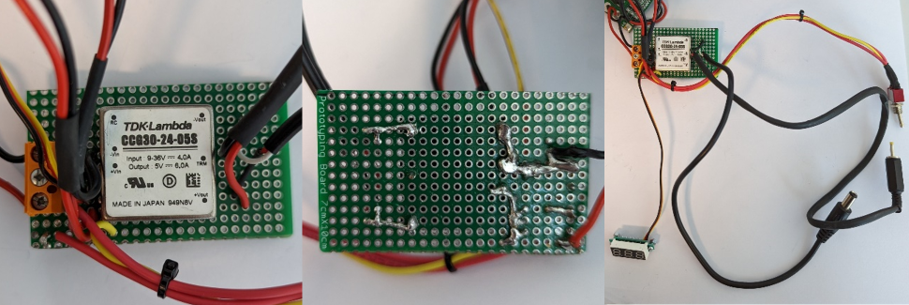
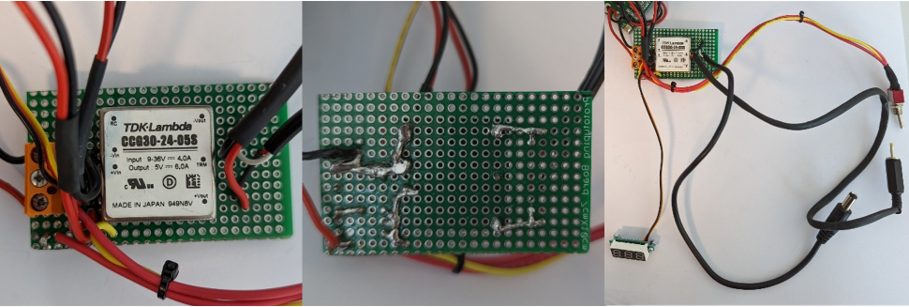
prototyping board

diff --git a/docs/hardware/Prototyping_Board_Test.py b/docs/hardware/Prototyping_Board_Test.py
@@ -1,0 +1,17 @@
+#!/usr/bin/python3
+
+import argparse
+import shape
+
+DEFAULT_HEIGHT = 46.0
+DEFAULT_WIDTH = 61.0
+
+parser = argparse.ArgumentParser()
+parser.add_argument("--height", help=f"Shape height in mm's (default={DEFAULT_HEIGHT})", type=float, default=DEFAULT_HEIGHT)
+parser.add_argument("--width", help=f"Shape width in mm's (default={DEFAULT_WIDTH})", type=float, default=DEFAULT_WIDTH)
+
+args = parser.parse_args()
+
+s = shape.Shape({"height": args.height, "width": args.width})
+
+print(s.render())

diff --git a/docs/hardware/assembly_instructions.md b/docs/hardware/assembly_instructions.md
@@ -68,6 +68,7 @@ Install the wheel onto the wheel adapter using 4x M3x8 screws.
 **Good job! Now 3 more to go.**
 
 ![Image](assembly_instructions/T1END.png)
+
 This is how your assembly should look after all the wheels have been attached.
 
 
@@ -97,7 +98,7 @@ This is how your assembly should look after all the wheels have been attached.
 
 ![Image](assembly_instructions/T2S1.png)
 
-Attach the motor controller plate to the top plate using 2x M3x4 screws. 
+Attach the motor controller plate to the top plate using 2x M3x4 screws.
 
 
 ### Step 2: IMU
@@ -187,7 +188,7 @@ Connect the USB cables as shown in the image and the Electronic System Architect
 
 ![Image](assembly_instructions/T2S8.png)
 
-Install the battery protection module and connect the battery cable and connector. Use the Electronic System Architecture.
+Connect the battery protection module using the battery cable to the Battery Connector. Use the Electronic System Architecture.
 
 ### Step 9: DC / DC Converter
 
@@ -200,7 +201,9 @@ Install the battery protection module and connect the battery cable and connecto
 
 ![Image](assembly_instructions/T2S9.png)
 
-Install the DC/DC converter, LED voltmeter, and power switch as shown in the image. Solder the connections according to the Electronic System Architecture.
+Assemble the DC/DC converter, LED voltmeter, and power switch as shown in the image. The second image is mirrored so that you can compare it to the left image. Solder the connections according to the Electronic System Architecture.
+
+![Image](assembly_instructions/prototyping_board.drawio.png)
 
 
 ### Step 10: Ciruit Board Box
@@ -244,7 +247,7 @@ Attach the Power Switch.
 
 ![Image](assembly_instructions/T2S13.png)
 
-Connect all the cables according to the Electronic System Architecture. The cables to the battery and the one power cable to the lidar remain unconnected for now.
+Connect all the cables according to the Electronic System Architecture. The cables to the battery and the one power cable to the LIDAR remain unconnected for now.
 
 **Good job! Now only the body remains to go.**
 
@@ -272,19 +275,19 @@ Connect all the cables according to the Electronic System Architecture. The cabl
 
 Attach the Power Supply Connector to the Hood. This step can be done by hand or with the 18 mm wrench.
 
-### Step 2: Lidar
+### Step 2: LIDAR
 
 **Required Parts:**
 
-- 1x HEL-06-01008-00 / Lidar
-- 1x HEL-06-01007-00 / Lidar Adapter
+- 1x HEL-06-01008-00 / LIDAR
+- 1x HEL-06-01007-00 / LIDAR Adapter
 - 4x DIN 7984 - M3 x 8 --- 6.5N / Screw M3x8
 
 
 
 ![Image](assembly_instructions/T3S2.png)
 
-Attach the Lidar using 4x M3x8 screws.
+Attach the LIDAR using 4x M3x8 screws.
 
 
 ### Step 3: Camera
